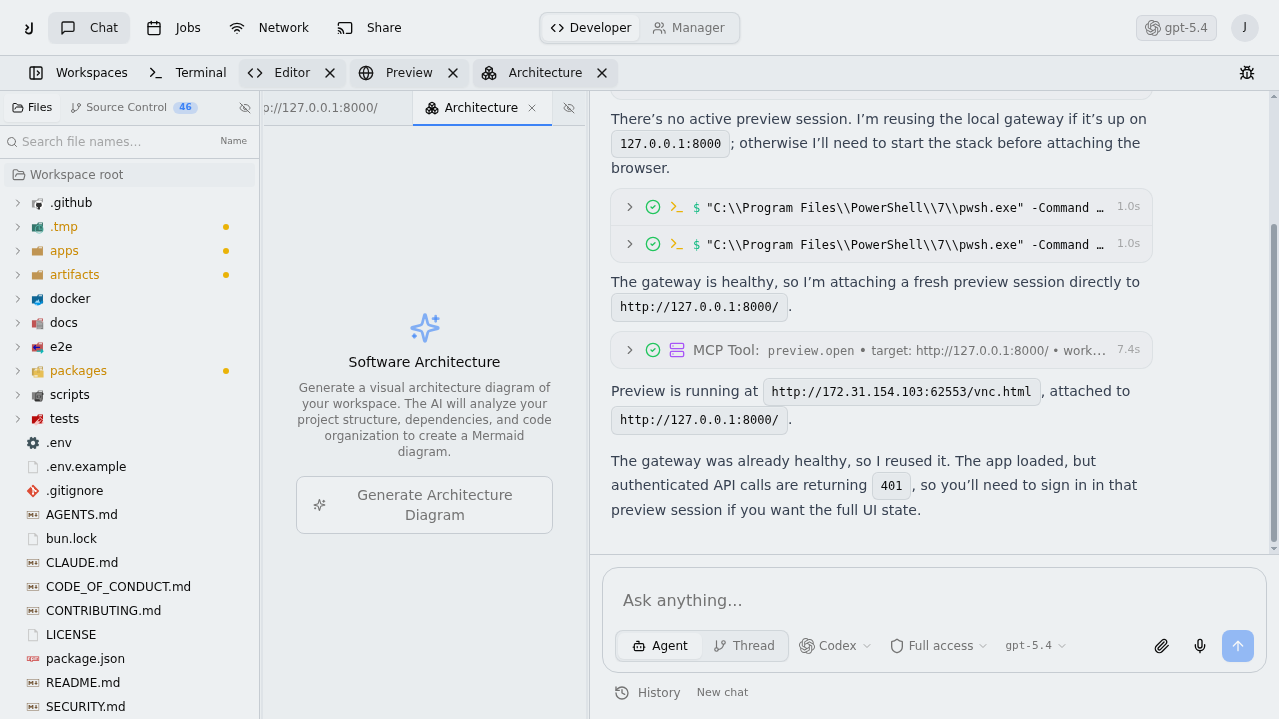
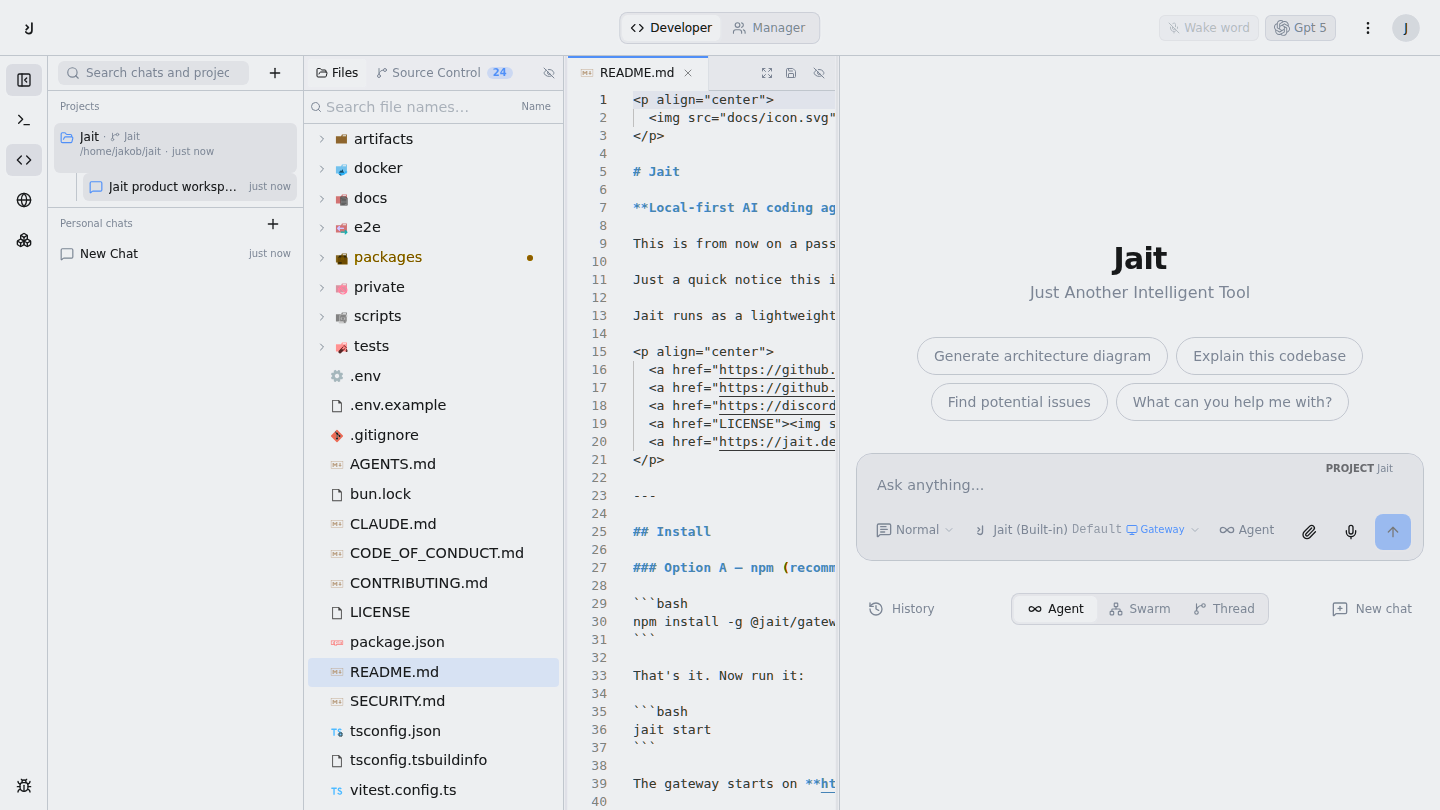
feat: refresh Jait editor screenshots

diff --git a/index.html b/index.html
@@ -534,9 +534,7 @@
       display: block;
     }
     .editor-shot-light { display: none; }
-    .editor-shot-dark {
-      filter: invert(0.9) hue-rotate(180deg) brightness(0.78) contrast(1.08) saturate(0.9);
-    }
+    .editor-shot-dark { filter: none; }
     html.light .editor-shot-light { display: block; }
     html.light .editor-shot-dark { display: none; }
     .product-gallery figcaption {
@@ -1265,8 +1263,8 @@
 
           <div class="hero-editor-shot">
             <figure>
-              <img class="editor-shot editor-shot-dark" src="assets/jait-editor-light.png" alt="Jait logged in with a project open in editor mode, dark theme" width="1279" height="719">
-              <img class="editor-shot editor-shot-light" src="assets/jait-editor-light.png" alt="Jait logged in with a project open in editor mode, light theme" width="1279" height="719">
+              <img class="editor-shot editor-shot-dark" src="assets/jait-editor-dark.png" alt="Jait logged in with a project open in editor mode, dark theme" width="1440" height="810">
+              <img class="editor-shot editor-shot-light" src="assets/jait-editor-light.png" alt="Jait logged in with a project open in editor mode, light theme" width="1440" height="810">
             </figure>
           </div>
 
@@ -1372,7 +1370,7 @@
         <!-- Right column — Jait app preview -->
         <div class="control-surface">
           <div class="product-shot-frame">
-            <img class="product-shot" src="assets/jait-editor-light.png" alt="Jait's real agent workspace with chat, tools, and project controls" width="1280" height="720" fetchpriority="high">
+            <img class="product-shot" src="assets/jait-editor-light.png" alt="Jait's real agent workspace with chat, tools, and project controls" width="1440" height="810" fetchpriority="high">
             <span class="product-shot-label">Actual Jait interface</span>
           </div>
           <div class="jait-app" style="min-height:0">
@@ -1457,8 +1455,8 @@
       <p class="section-sub">The complete logged-in workspace in editor mode. The screenshot follows your light or dark theme choice.</p>
       <div class="product-gallery">
         <figure>
-          <img class="editor-shot editor-shot-dark" src="assets/jait-editor-light.png" alt="Jait logged in with a project open in editor mode, dark theme" width="1279" height="719" loading="lazy">
-          <img class="editor-shot editor-shot-light" src="assets/jait-editor-light.png" alt="Jait logged in with a project open in editor mode, light theme" width="1279" height="719" loading="lazy">
+          <img class="editor-shot editor-shot-dark" src="assets/jait-editor-dark.png" alt="Jait logged in with a project open in editor mode, dark theme" width="1440" height="810" loading="lazy">
+          <img class="editor-shot editor-shot-light" src="assets/jait-editor-light.png" alt="Jait logged in with a project open in editor mode, light theme" width="1440" height="810" loading="lazy">
           <figcaption><strong>Project files, editor tools, architecture, preview, and agent chat in one workspace.</strong></figcaption>
         </figure>
       </div>
